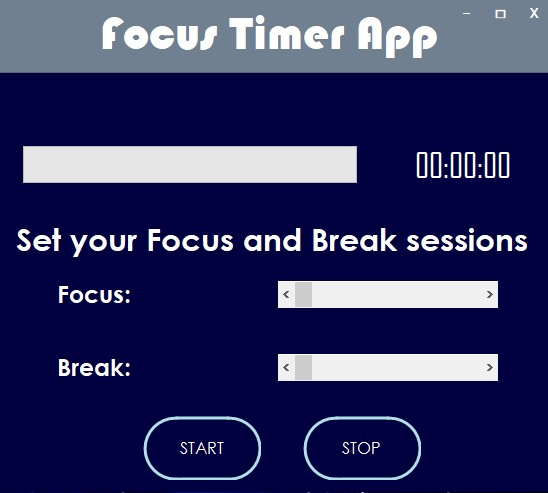
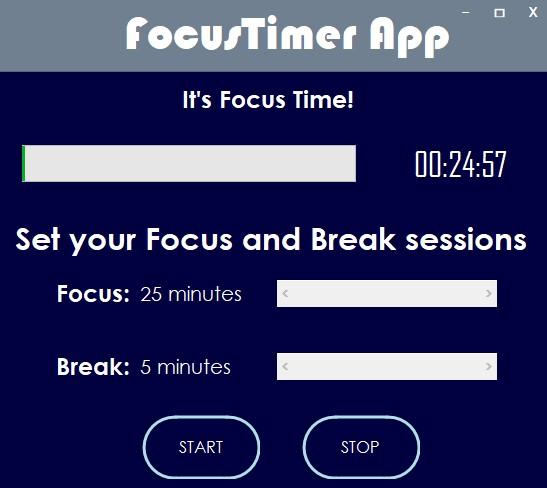
- README updates

diff --git a/PomodoroAlarm/Form1.Designer.cs b/PomodoroAlarm/Form1.Designer.cs
@@ -161,11 +161,11 @@
             this.label8.AutoSize = true;
             this.label8.Font = new System.Drawing.Font("Bauhaus 93", 35F, System.Drawing.FontStyle.Regular, System.Drawing.GraphicsUnit.Point, ((byte)(0)));
             this.label8.ForeColor = System.Drawing.Color.White;
-            this.label8.Location = new System.Drawing.Point(91, 7);
+            this.label8.Location = new System.Drawing.Point(116, 8);
             this.label8.Name = "label8";
-            this.label8.Size = new System.Drawing.Size(361, 53);
+            this.label8.Size = new System.Drawing.Size(349, 53);
             this.label8.TabIndex = 22;
-            this.label8.Text = "Focus Timer App";
+            this.label8.Text = "FocusTimer App";
             // 
             // label7
             // 

diff --git a/README.md b/README.md
@@ -1,4 +1,4 @@
-# Pomodoro Alarm
+# FocusTimer App - Pomodoro Clock
 
 <h1 align="center">
     <img src="PomodoroAlarm/App-Picture.jpg"
@@ -9,7 +9,7 @@
 
 <!-- ![Alt text](PomodoroAlarm/App-Picture.jpg?raw=true "Title") -->
 
-> FocusTimer App Window
+<p align="center"> FocusTimer App Window<p>
 
 ---
 
@@ -18,7 +18,7 @@
 
 - [Description](#description)
 - [How To Use](#how-to-use)
-- [References](#references)
+- [Useful links and resources](#Useful-links-and-resources)
 - [License](#license)
 - [Author Info](#author-info)
 
@@ -37,13 +37,17 @@ Transform time from being an enemy to being an ally.
 - Windows Forms
 - C#
 
-[Back To The Top](#read-me-template)
+[Back To The Top](#focustimer-app---pomodoro-clock)
 
 ---
 
 ## How To Use
 
-XXXXXXXXXXXXX
+* Set a duration for your Focus and Break sessions (or only one of them)
+* Press Start button and the timer will start running
+* If you set up both Focus and Break sessions, the app will automatically start running your Break session after the Focus session is over
+* An alarm will ring everytime the progress bar is complete
+* You can hit the Stop button at any time to cancel the activty
 
 
 
@@ -64,7 +68,7 @@ XXXXXXXXXXXXX
 
 -   More about the [Pomodoro Technique](https://en.m.wikipedia.org/wiki/Pomodoro_Technique)
 
-[Back To The Top](#read-me-template)
+[Back To The Top](#focustimer-app---pomodoro-clock)
 
 ---
 
@@ -74,25 +78,7 @@ MIT License
 
 Copyright (c) [2020] [Patricia Canuto Vieira da Costa]
 
-Permission is hereby granted, free of charge, to any person obtaining a copy
-of this software and associated documentation files (the "Software"), to deal
-in the Software without restriction, including without limitation the rights
-to use, copy, modify, merge, publish, distribute, sublicense, and/or sell
-copies of the Software, and to permit persons to whom the Software is
-furnished to do so, subject to the following conditions:
-
-The above copyright notice and this permission notice shall be included in all
-copies or substantial portions of the Software.
-
-THE SOFTWARE IS PROVIDED "AS IS", WITHOUT WARRANTY OF ANY KIND, EXPRESS OR
-IMPLIED, INCLUDING BUT NOT LIMITED TO THE WARRANTIES OF MERCHANTABILITY,
-FITNESS FOR A PARTICULAR PURPOSE AND NONINFRINGEMENT. IN NO EVENT SHALL THE
-AUTHORS OR COPYRIGHT HOLDERS BE LIABLE FOR ANY CLAIM, DAMAGES OR OTHER
-LIABILITY, WHETHER IN AN ACTION OF CONTRACT, TORT OR OTHERWISE, ARISING FROM,
-OUT OF OR IN CONNECTION WITH THE SOFTWARE OR THE USE OR OTHER DEALINGS IN THE
-SOFTWARE.
-
-[Back To The Top](#read-me-template)
+[Back To The Top](#focustimer-app---pomodoro-clock)
 
 ---
 
@@ -100,4 +86,4 @@ SOFTWARE.
 
 - LinkedIn - [Patricia Costa](https://www.linkedin.com/in/patricia-costa-885038a0/)
 
-[Back To The Top](#read-me-template)
+[Back To The Top](#focustimer-app---pomodoro-clock)
